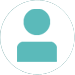
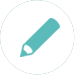
stuck on resizing image for thumbnail

diff --git a/student-createoredit-my-schedule.php b/student-createoredit-my-schedule.php
@@ -28,15 +28,22 @@ $num_rows = mysql_num_rows($result);
                     $teacherPrefix    = mysql_result($result,$i,'prefix');
                     $teacherLastname  = mysql_result($result,$i,'lastname');
                     $teacherSubject   = mysql_result($result,$i,'C_ID');
+                    $teacherProfileImg= mysql_result($result,$i, 'profile');
 
                     $coursesQuery     = mysql_query("SELECT CourseName FROM `courses` WHERE $teacherSubject = C_ID ");
                     $course           = mysql_fetch_assoc($coursesQuery); 
 
                     //$teacherPrefix    = strtoupper($teacherPrefix);
-                    //$teacherLastname  = strtoupper($teacherLastname);
+                    //$teacherLastname  = strtoupper($teacherLastname);     
+                    $image = new SimpleImage ();
+                    $file  = basename($teacherProfileImg);
+                    $image->load($file);
+                    $image->resize(35,35);
+                    $image->save('temp_thumbnail.jpeg');
 
                     echo "<tr>
-                            <td><a href=\"student-teacher-schedule.php?prefix=$teacherPrefix&teachername=$teacherLastname\">$teacherPrefix&nbsp;$teacherLastname</a></td> 
+                            <td><a href=\"student-teacher-schedule.php?prefix=$teacherPrefix&teachername=$teacherLastname\">$teacherPrefix&nbsp;$teacherLastname</a></td>  
+                            <td><img src=\"temp_thumbnail.jpeg\"/></td>
                             <td><a href=\"student-teacher-schedule.php?prefix=$teacherPrefix&teachername=$teacherLastname\">$course[CourseName]</td>                          
                           </tr>";
                   }

diff --git a/teacher-member.php b/teacher-member.php
@@ -34,7 +34,7 @@ $teacherLastname = strtoupper($teacher_data['lastname']);
                   <td style="vertical-align:top; padding:20px;"><a href="teacher-edit-profile.php">EDIT PROFILE</a></td>
                 </tr>
                 <tr>
-                  <td style="padding-bottom:30px;"><a href="teacher-my-schedule.php"><img href="teacher-my-schedule.php" src="images/check_schedule_icon_75x75.png"></a></td>
+                  <td style="padding-bottom:30px;"><a href="teacher-my-schedule.php"><img href="teacher-my-schedule.php" src="images/my_schedule_icon_75x75.png"></a></td>
                   <td style="vertical-align:top; padding:20px; tex-align:left;"><a href="teacher-my-schedule.php">CHECK SCHEDULE</a></td>
                 </tr>
               </table>

diff --git a/teacher-edit-profile.php b/teacher-edit-profile.php
@@ -1,6 +1,5 @@
 <?php
 include "core/init.php";
-include "SimpleImage.php";
 include "includes/overall-header.php";
 
 
@@ -153,10 +152,7 @@ if(empty($_POST) === false)
 
                       if(in_array($file_extn, $allowed) === true)
                       {
-                         $image = new SimpleImage();
-                         $image->load($file_temp);
-                         $image->resizeToWidth(389);
-                         $image->save($file_temp);
+                        
                         change_profile_image($teacher_data['T_ID'],$file_temp,$file_extn);
                         echo '<META HTTP-EQUIV="Refresh" Content="0; URL= teacher-edit-profile.php">';
                         exit();

diff --git a/student-member.php b/student-member.php
@@ -12,7 +12,7 @@ include "includes/overall-header.php";
             <div id="membersBodyMenu" style="float:left; margin:30% 0 0 10%;">
             	<table width="425px" border="0px" cellspacing="0" cellpadding="0" align ="center">
                 <tr>
-                  <td style="padding-bottom:30px;"><a href="student-my-schedule.php"><img src="images/check_schedule_icon_75x75.png"></a></td>
+                  <td style="padding-bottom:30px;"><a href="student-my-schedule.php"><img src="images/my_schedule_icon_75x75.png"></a></td>
                   <td style="vertical-align:top; padding:20px;"><a href="student-my-schedule.php">MY SCHEDULE</a></td>
                 </tr>
                 <tr>

diff --git a/core/functions/teachers.php b/core/functions/teachers.php
@@ -1,9 +1,13 @@
 <?php
 function change_profile_image($teacher_id,$file_temp,$file_extn)
 {
-	$file_path = 'images/profile/'.substr(md5(time()),0,10).'.'.$file_extn;
-	move_uploaded_file($file_temp, $file_path);
-	echo "$file_path";
+	$image = new SimpleImage();
+	$image->load($file_temp);
+	$image->resizeToWidth(389);
+	$image->save($file_temp);
+
+	$file_path 			 = 'images/profile/'.substr(md5(time()),0,10).'.'.$file_extn;
+	move_uploaded_file($file_temp, $file_path);	
 	mysql_query("UPDATE `teachers` SET `profile` = '$file_path' WHERE `T_ID` = $teacher_id") or die("couldnt store image on database");
 
 }

diff --git a/teacher-login.php b/teacher-login.php
@@ -85,7 +85,7 @@ if(empty($_POST) === false)
               </form>               
           </div>
           
-          <h5 style="text-align:centre; float:right; color:#fff; padding-top:10%;">DON'T HAVE AN ACCOUNT ?&nbsp;<a href="teacher-register.php">SIGN UP NOW</a></h5>
+          <h5 style="text-align:right; float:right; color:#fff; padding-top:10%;">DON'T HAVE AN ACCOUNT ?&nbsp;<a href="teacher-register.php">SIGN UP NOW</a></h5>
          
         </div> 
         <!end of main links div tag !> 

diff --git a/core/init.php b/core/init.php
@@ -8,6 +8,7 @@ require 'functions/general.php';
 require 'functions/users.php';
 require 'functions/students.php';
 require 'functions/teachers.php';
+require "SimpleImage.php";
 
 
 //seperate functions
